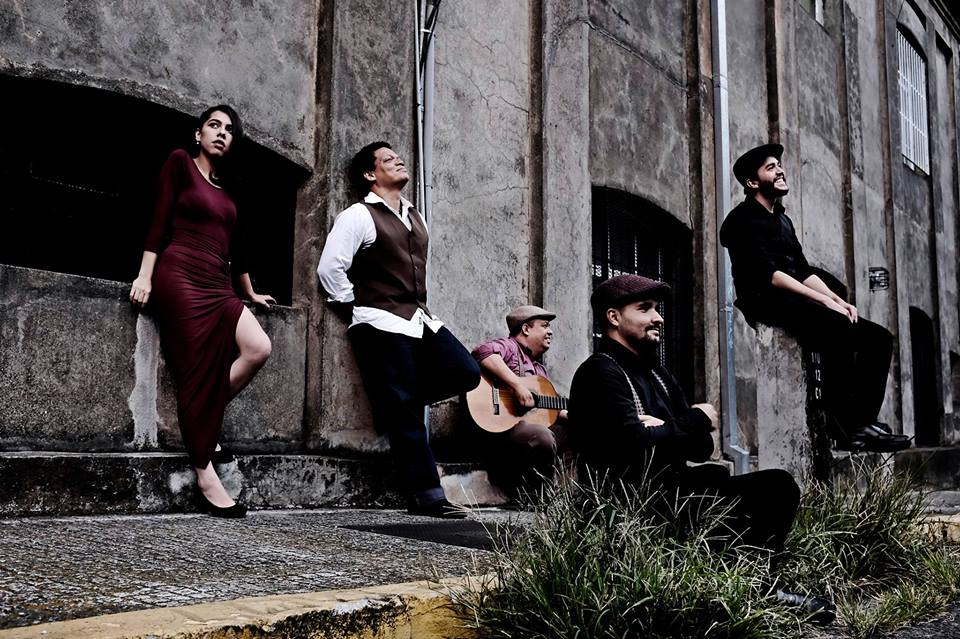
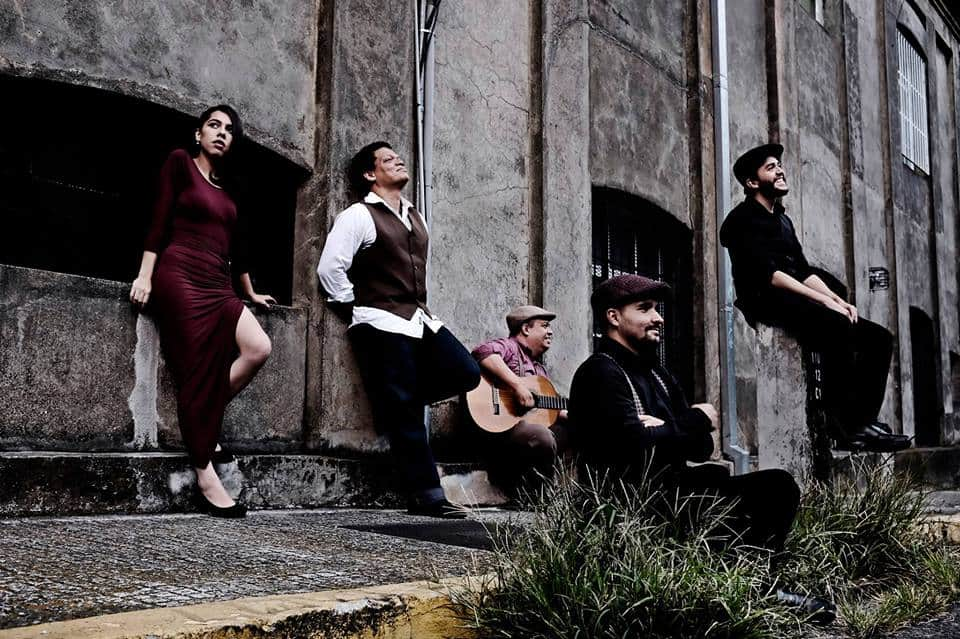
Se optimizan las imagenes de todas las paginas, se inserta codigo de visualización para otros exploradores.

diff --git a/index.html b/index.html
@@ -14,7 +14,7 @@
     <meta name="description" content="Adagio Gitano es una agrupación Costarricense desde el 2014 con ritmos latinoamericanos como choro, bossa nova, y generos mas reconocidos como lo son el blues, el funk." />
     <!--       HOJAS DE ESTILO         -->
     <link rel="stylesheet" href="https://maxcdn.bootstrapcdn.com/bootstrap/3.3.7/css/bootstrap.min.css" integrity="sha384-BVYiiSIFeK1dGmJRAkycuHAHRg32OmUcww7on3RYdg4Va+PmSTsz/K68vbdEjh4u" crossorigin="anonymous">
-    
+    <link rel="stylesheet" href="css/style.css">  
     <!-- Region Pagina -->
     <link rel="alternate" hreflang="es-CR" href="http://adagiogitano.github.io/"> 
     <!--[if lt IE 9]>
@@ -23,7 +23,7 @@
     <!--          Scripts              -->
     <script src="js/lib/jquery-3.1.1.min.js"></script>
     <script src="https://maxcdn.bootstrapcdn.com/bootstrap/3.3.7/js/bootstrap.min.js" integrity="sha384-Tc5IQib027qvyjSMfHjOMaLkfuWVxZxUPnCJA7l2mCWNIpG9mGCD8wGNIcPD7Txa" crossorigin="anonymous"></script>
-    <link rel="stylesheet" href="css/style.css">   
+     
 </head>
 
 <body class="multimedia">

diff --git a/acercade.html b/acercade.html
@@ -1,5 +1,10 @@
 <!DOCTYPE html>
-<html lang="en">
+<!--[if lt IE 7]>      <html class="no-js lt-ie9 lt-ie8 lt-ie7"> <![endif]-->
+<!--[if IE 7]>         <html class="no-js lt-ie9 lt-ie8"> <![endif]-->
+<!--[if IE 8]>         <html class="no-js lt-ie9"> <![endif]-->
+<!--[if gt IE 8]><!-->
+<html class="no-js" lang="en">
+<!--<![endif]-->
 
 <head>
     <meta charset="UTF-8">

diff --git a/contacto.html b/contacto.html
@@ -1,5 +1,10 @@
 <!DOCTYPE html>
-<html lang="en">
+<!--[if lt IE 7]>      <html class="no-js lt-ie9 lt-ie8 lt-ie7"> <![endif]-->
+<!--[if IE 7]>         <html class="no-js lt-ie9 lt-ie8"> <![endif]-->
+<!--[if IE 8]>         <html class="no-js lt-ie9"> <![endif]-->
+<!--[if gt IE 8]><!-->
+<html class="no-js" lang="en">
+<!--<![endif]-->
 
 <head>
     <meta charset="UTF-8">

diff --git a/multimedia.html b/multimedia.html
@@ -1,5 +1,10 @@
 <!DOCTYPE html>
-<html lang="en">
+<!--[if lt IE 7]>      <html class="no-js lt-ie9 lt-ie8 lt-ie7"> <![endif]-->
+<!--[if IE 7]>         <html class="no-js lt-ie9 lt-ie8"> <![endif]-->
+<!--[if IE 8]>         <html class="no-js lt-ie9"> <![endif]-->
+<!--[if gt IE 8]><!-->
+<html class="no-js" lang="en">
+<!--<![endif]-->
 
 <head>
     <meta charset="UTF-8">
